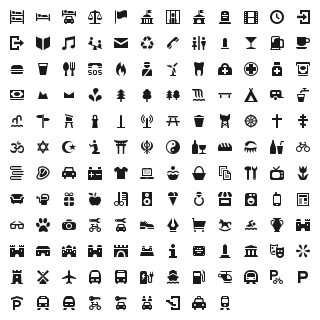
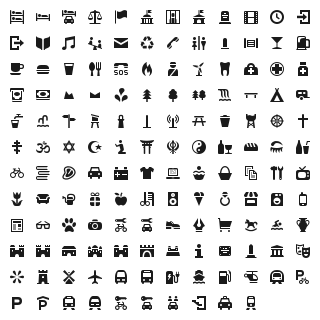
added gate

diff --git a/font/osmic-preview.html b/font/osmic-preview.html
@@ -219,6 +219,7 @@
 .oc-fuel:before,
 .oc-furniture:before,
 .oc-garden-centre:before,
+.oc-gate:before,
 .oc-gift:before,
 .oc-government:before,
 .oc-greengrocer:before,
@@ -374,6 +375,7 @@
 .oc-fuel:before { content: "\f129"; }
 .oc-furniture:before { content: "\f12a"; }
 .oc-garden-centre:before { content: "\f179"; }
+.oc-gate:before { content: "\f18f"; }
 .oc-gift:before { content: "\f12b"; }
 .oc-government:before { content: "\f12c"; }
 .oc-greengrocer:before { content: "\f12d"; }
@@ -471,7 +473,7 @@
   <body class="characters-off">
     <div id="page" class="container">
       <header>
-        <h1>osmic contains 141 glyphs:</h1>
+        <h1>osmic contains 142 glyphs:</h1>
         <a onclick="toggleCharacters(); return false;" href="#">Toggle Preview Characters</a>
       </header>
 
@@ -1240,6 +1242,19 @@
         <div class="usage">
           <input class="class" type="text" readonly="readonly" onClick="this.select();" value=".oc-garden-centre" />
           <input class="point" type="text" readonly="readonly" onClick="this.select();" value="&amp;#xf179;" />
+        </div>
+      </div>
+      
+      <div class="glyph">
+        <div class="preview-glyphs">
+          <span class="step size-12"><span class="letters">Pp</span><i id="oc-gate" class="oc-gate"></i></span><span class="step size-14"><span class="letters">Pp</span><i id="oc-gate" class="oc-gate"></i></span><span class="step size-16"><span class="letters">Pp</span><i id="oc-gate" class="oc-gate"></i></span><span class="step size-18"><span class="letters">Pp</span><i id="oc-gate" class="oc-gate"></i></span><span class="step size-21"><span class="letters">Pp</span><i id="oc-gate" class="oc-gate"></i></span><span class="step size-24"><span class="letters">Pp</span><i id="oc-gate" class="oc-gate"></i></span><span class="step size-36"><span class="letters">Pp</span><i id="oc-gate" class="oc-gate"></i></span><span class="step size-48"><span class="letters">Pp</span><i id="oc-gate" class="oc-gate"></i></span><span class="step size-60"><span class="letters">Pp</span><i id="oc-gate" class="oc-gate"></i></span><span class="step size-72"><span class="letters">Pp</span><i id="oc-gate" class="oc-gate"></i></span>
+        </div>
+        <div class="preview-scale">
+          <span class="step">12</span><span class="step">14</span><span class="step">16</span><span class="step">18</span><span class="step">21</span><span class="step">24</span><span class="step">36</span><span class="step">48</span><span class="step">60</span><span class="step">72</span>
+        </div>
+        <div class="usage">
+          <input class="class" type="text" readonly="readonly" onClick="this.select();" value=".oc-gate" />
+          <input class="point" type="text" readonly="readonly" onClick="this.select();" value="&amp;#xf18f;" />
         </div>
       </div>
       

diff --git a/font/osmic.css b/font/osmic.css
@@ -82,6 +82,7 @@
 .oc-fuel:before,
 .oc-furniture:before,
 .oc-garden-centre:before,
+.oc-gate:before,
 .oc-gift:before,
 .oc-government:before,
 .oc-greengrocer:before,
@@ -237,6 +238,7 @@
 .oc-fuel:before { content: "\f129"; }
 .oc-furniture:before { content: "\f12a"; }
 .oc-garden-centre:before { content: "\f179"; }
+.oc-gate:before { content: "\f18f"; }
 .oc-gift:before { content: "\f12b"; }
 .oc-government:before { content: "\f12c"; }
 .oc-greengrocer:before { content: "\f12d"; }
